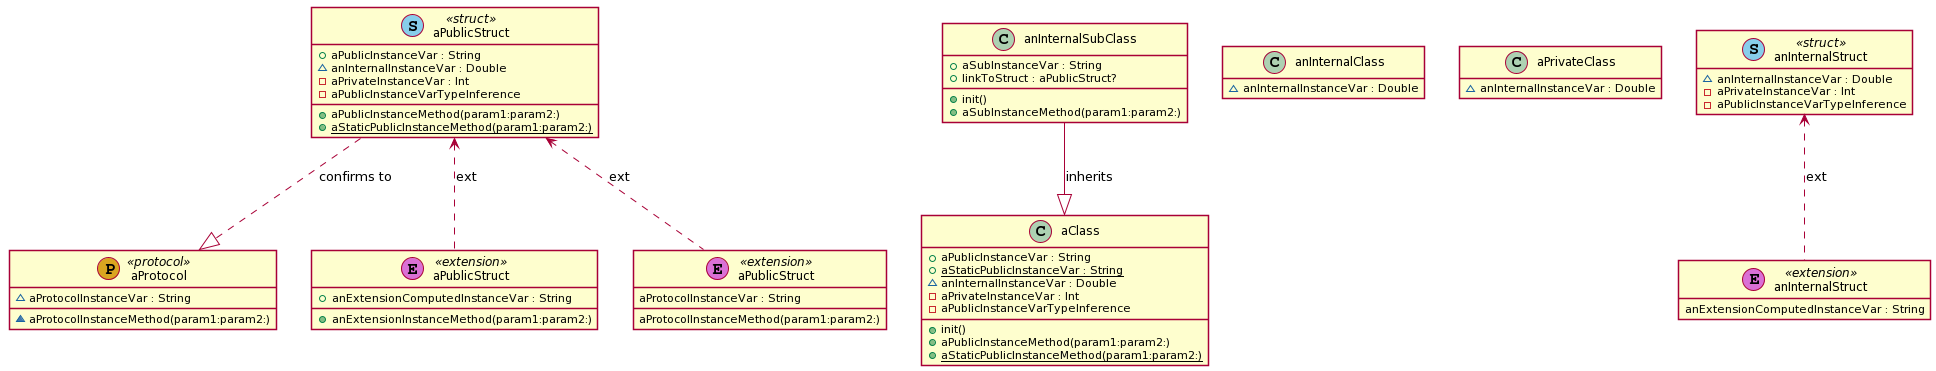
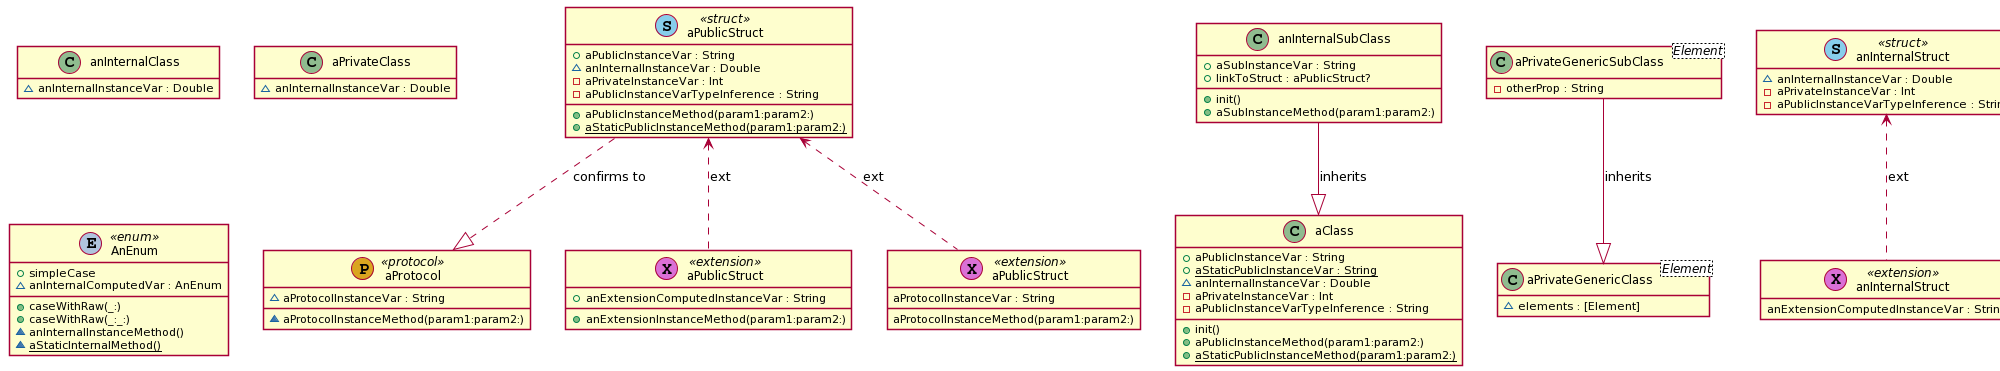
fix: 🐛 render Enum with members
✅ Closes: #19

diff --git a/Sources/SwiftPlantUMLFramework/Internal/SyntaxStructure+PlantUML.swift b/Sources/SwiftPlantUMLFramework/Internal/SyntaxStructure+PlantUML.swift
@@ -43,61 +43,74 @@ extension SyntaxStructure {
     }
 
     private func members(context: PlantUMLContext) -> String {
-        var methods = ""
+        var members = ""
 
-        guard substructure != nil, substructure!.count > 0 else { return methods }
+        guard let substructure = self.substructure, substructure.count > 0 else { return members }
 
-        for sub in substructure! {
-            guard sub.kind == ElementKind.functionMethodInstance || sub.kind == ElementKind.functionMethodStatic || sub.kind == ElementKind.varInstance ||
-                sub.kind == ElementKind.varStatic else { continue }
-
-            if kind! != .extension {
-                let generateMembersWithAccessLevel: [ElementAccessibility] = context.configuration.elements.showMembersWithAccessLevel.map { ElementAccessibility(orig: $0)! }
-                if generateMembersWithAccessLevel.contains(sub.accessibility ?? ElementAccessibility.other) == false {
-                    continue
-                }
+        for sub in substructure {
+            if let msig = member(element: sub, context: context) {
+                members.appendAsNewLine(msig)
             }
-
-            var msig = "  "
-
-            if context.configuration.elements.showMemberAccessLevelAttribute {
-                switch sub.accessibility {
-                case .public:
-                    msig += "+"
-                case .internal:
-                    msig += "~"
-                case .private:
-                    msig += "-"
-                default:
-                    ()
-                }
-            }
-
-            if sub.kind == ElementKind.functionMethodInstance {
-                msig += "\(sub.name!)"
-            }
-            if sub.kind == ElementKind.functionMethodStatic {
-                msig += "{static} \(sub.name!)"
-            }
-            if sub.kind == ElementKind.varInstance {
-                if sub.typename != nil {
-                    msig += "\(sub.name!) : \(sub.typename!)"
-                } else {
-                    msig += "\(sub.name!)"
-                }
-            }
-            if sub.kind == ElementKind.varStatic {
-                if sub.typename != nil {
-                    msig += "{static} \(sub.name!) : \(sub.typename!)"
-                } else {
-                    msig += "{static} \(sub.name!)"
-                }
-            }
-
-            methods.appendAsNewLine(msig)
         }
 
-        return methods
+        return members
+    }
+
+    private func member(element: SyntaxStructure, context: PlantUMLContext) -> String? {
+        guard
+            element.kind == ElementKind.functionMethodInstance ||
+            element.kind == ElementKind.functionMethodStatic ||
+            element.kind == ElementKind.varInstance ||
+            element.kind == ElementKind.varStatic ||
+            element.kind == ElementKind.enumcase else { return nil }
+
+        let actualElement: SyntaxStructure!
+        if element.kind == ElementKind.enumcase {
+            actualElement = element.substructure?.first!
+        } else {
+            actualElement = element
+        }
+
+        if kind! != .extension {
+            let generateMembersWithAccessLevel: [ElementAccessibility] = context.configuration.elements.showMembersWithAccessLevel.map { ElementAccessibility(orig: $0)! }
+            if generateMembersWithAccessLevel.contains(actualElement.accessibility ?? ElementAccessibility.other) == false {
+                return nil
+            }
+        }
+
+        var msig = "  "
+
+        msig.addOrSkipMemberAccessLevelAttribute(for: actualElement, basedOn: context.configuration)
+
+        msig += memberName(of: actualElement)
+
+        return msig
+    }
+
+    private func memberName(of element: SyntaxStructure) -> String {
+        let kind = element.kind!
+        switch kind {
+        case .functionMethodInstance:
+            return "\(element.name!)"
+        case .functionMethodStatic:
+            return "{static} \(element.name!)"
+        case .varInstance:
+            if element.typename != nil {
+                return "\(element.name!) : \(element.typename!)"
+            } else {
+                return "\(element.name!)"
+            }
+        case .varStatic:
+            if element.typename != nil {
+                return "{static} \(element.name!) : \(element.typename!)"
+            } else {
+                return "{static} \(element.name!)"
+            }
+        case .enumelement:
+            return "\(element.name!)"
+        default:
+            return ""
+        }
     }
 
     private func skip(element: SyntaxStructure, basedOn configuration: Configuration) -> Bool {

diff --git a/Sources/SwiftPlantUMLFramework/Internal/String+Extensions.swift b/Sources/SwiftPlantUMLFramework/Internal/String+Extensions.swift
@@ -43,3 +43,20 @@ internal extension String {
         return regex.firstMatch(in: self, options: [], range: NSRange(location: 0, length: utf16.count)) != nil
     }
 }
+
+internal extension String {
+    mutating func addOrSkipMemberAccessLevelAttribute(for element: SyntaxStructure, basedOn configuration: Configuration) {
+        guard configuration.elements.showMemberAccessLevelAttribute == true else { return }
+
+        switch element.accessibility {
+        case .public:
+            self += "+"
+        case .internal:
+            self += "~"
+        case .private:
+            self += "-"
+        default:
+            ()
+        }
+    }
+}
